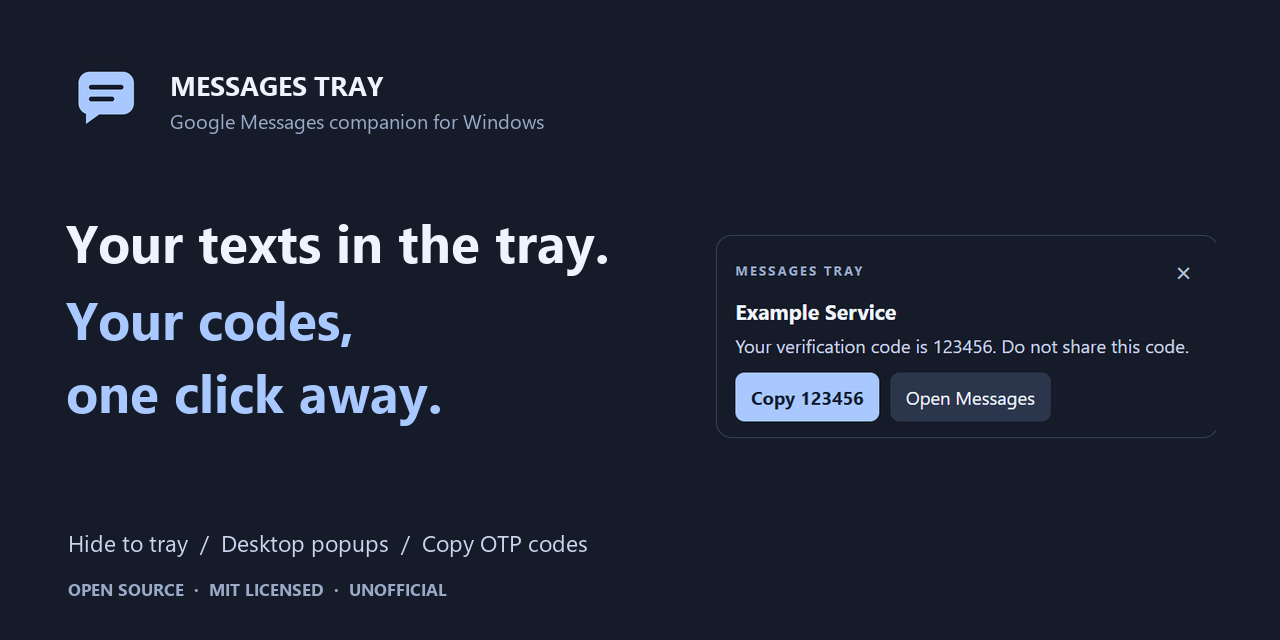
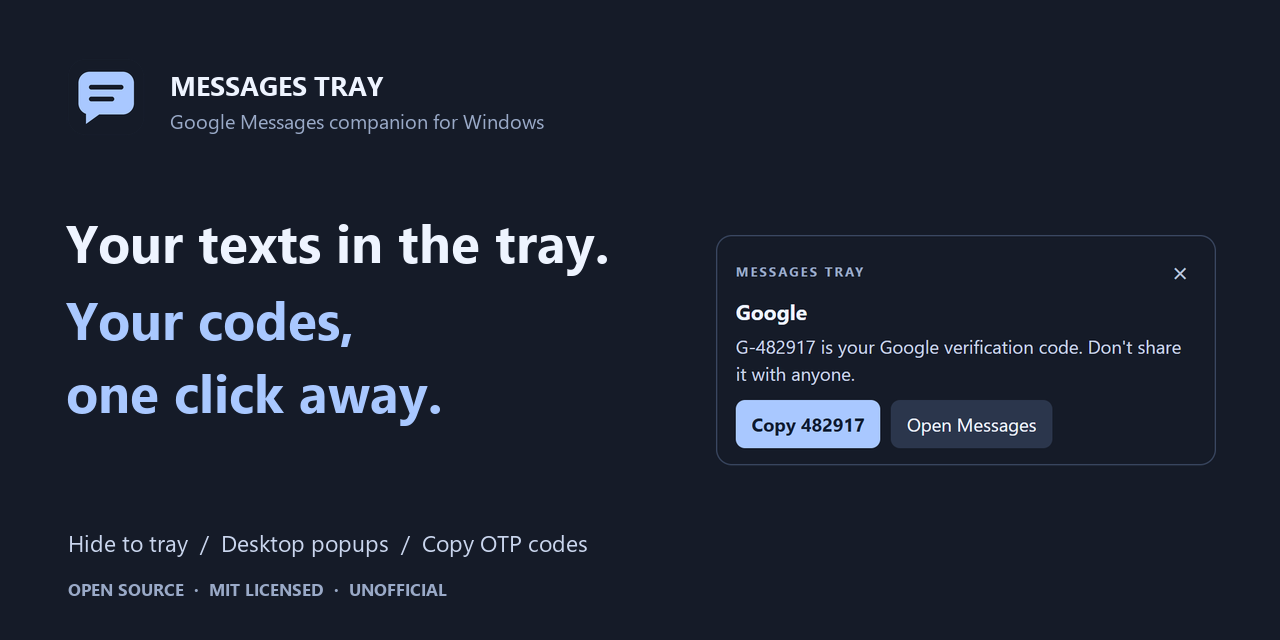
Show a realistic Google sign-in code in the README notification preview

diff --git a/scripts/capture-demo.js b/scripts/capture-demo.js
@@ -3,12 +3,15 @@
 const { app, BrowserWindow, ipcMain } = require('electron');
 const fs = require('node:fs');
 const path = require('node:path');
+const { extractCode } = require('../src/codes');
+app.commandLine.appendSwitch('force-device-scale-factor', '2');
 app.whenReady().then(async () => {
   const window = new BrowserWindow({ width: 380, height: 210, show: false, frame: false,
     webPreferences: { preload: path.join(__dirname, '../src/popup-preload.js'), sandbox: true, contextIsolation: true, nodeIntegration: false } });
   ipcMain.handle('popup-copy', () => true);
   await window.loadFile(path.join(__dirname, '../src/popup.html'));
-  window.webContents.send('popup-data', { title: 'Example Service', body: 'Your verification code is 123456. Do not share this code.', code: '123456' });
+  const body = "G-482917 is your Google verification code. Don't share it with anyone.";
+  window.webContents.send('popup-data', { title: 'Google', body, code: extractCode(body), revision: 1 });
   await new Promise(resolve => setTimeout(resolve, 500));
   const height = await window.webContents.executeJavaScript('Math.ceil(document.body.getBoundingClientRect().height)');
   const image = await window.webContents.capturePage({ x: 0, y: 0, width: 380, height });

diff --git a/test/codes.test.js b/test/codes.test.js
@@ -6,6 +6,7 @@ const { extractCode, MessageGate } = require('../src/codes');
 test('recognizes common numeric verification formats', () => {
   for (const [text, expected] of [
     ['Your Google verification code is 123456.', '123456'],
+    ["G-482917 is your Google verification code. Don't share it with anyone.", '482917'],
     ['123456 is your verification code. Do not share it.', '123456'],
     ['Security code: 4829', '4829'],
     ['Your one-time passcode: 123-456', '123456'],

diff --git a/README.md b/README.md
@@ -12,8 +12,8 @@
 **Messages Tray** is an unofficial, open-source **Google Messages desktop companion for Windows**. Keep your Android phone's texts available in the system tray—without a tab in your normal Chrome window—and copy detected SMS verification codes directly from desktop notification popups.
 
 <p align="center">
-  <img src="docs/images/notification-demo.png" width="380" alt="Google Messages Tray desktop popup showing a fictional verification text and a Copy 123456 button" />
-  <br /><sub>Actual app popup, using a fictional sender and test code. No real messages shown.</sub>
+  <img src="docs/images/notification-demo.png" width="380" alt="Google Messages Tray popup showing a sample Google sign-in text with G-482917 and a matching Copy 482917 button" />
+  <br /><sub>Google sign-in on your PC → receive the text → copy the code. Sample message; code is fictional.</sub>
 </p>
 
 ## Why use it?
